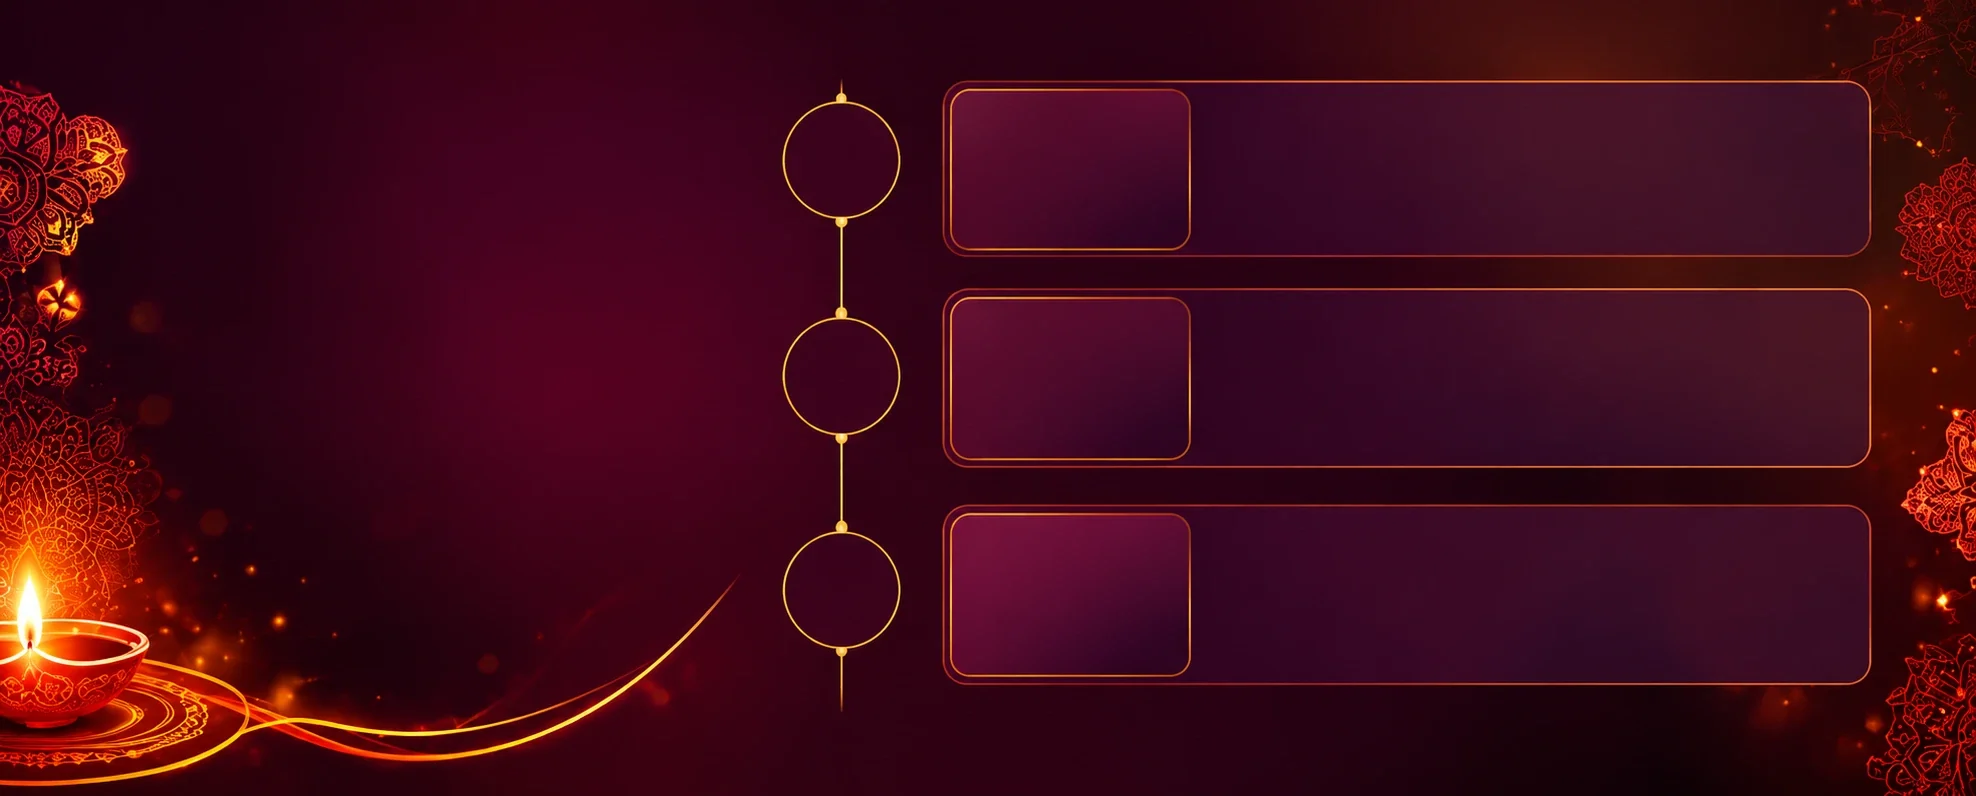
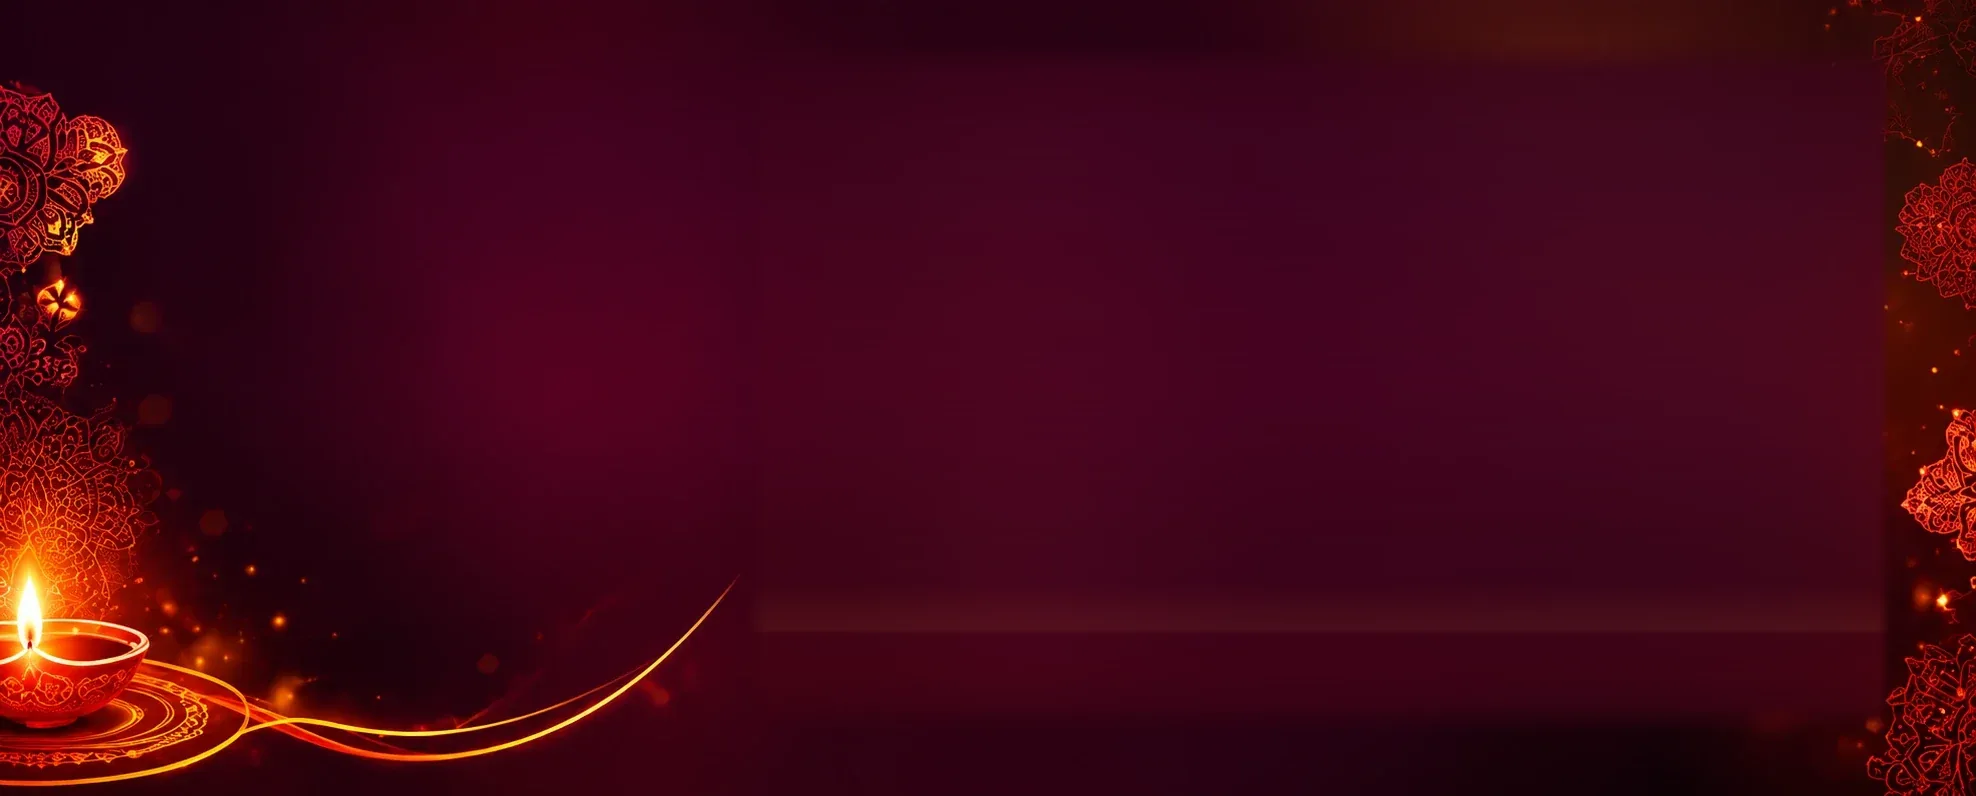
Draw the schedule timeline, circles and card frames in CSS
The desktop plate no longer has the three frames and circles painted in,
so a removed day leaves no empty frame behind. Rows re-centre when one or
two days remain.

diff --git a/styles.css b/styles.css
@@ -212,8 +212,9 @@ section>.wrap{position:relative}
 .sch-meta i{color:var(--gold);margin-right:6px}
 .sch-go{color:var(--gold);font-size:1.3rem}
 
-/* Desktop schedule: artwork (assets/ui/schedule-plate.webp, 1976x796) with the diya, the timeline
-   circles and three card frames built in. Content is placed in plate units. */
+/* Desktop schedule: artwork (assets/ui/schedule-plate.webp, 1976x796) with the diya and mandalas.
+   The timeline, circles and card frames are drawn here so they only appear for the days shown.
+   Content is placed in plate units. */
 @media (min-width:1100px){
   .schedule{padding:0;container-type:inline-size;background:url(assets/ui/schedule-plate.webp) center/100% 100% no-repeat,#2a0a1d}
   .sch-mandala,.sch-lamps,.sch-swoosh,.sch-list::before{display:none}
@@ -224,17 +225,28 @@ section>.wrap{position:relative}
   .sch-copy .btn{min-height:calc(64*var(--k));padding:0 calc(36*var(--k));font-size:calc(20*var(--k));gap:calc(12*var(--k))}
   .sch-list{position:absolute;inset:0;display:block;pointer-events:none}
   .sch-list li{position:absolute;display:block;pointer-events:auto;left:calc(783*var(--k));width:calc(1087*var(--k));top:calc(81*var(--k));height:calc(174*var(--k))}
+  /* timeline: a gold line from the circle down to the next circle, with a dot at each end */
+  .sch-list li::before{content:"";position:absolute;left:calc(57*var(--k));top:calc(-40*var(--k));bottom:calc(-40*var(--k));width:calc(2*var(--k));background:linear-gradient(180deg,var(--gold-2),var(--gold));opacity:.9}
+  .sch-list li:first-child::before{top:calc(-20*var(--k))}
+  .sch-list li:last-child::before{bottom:calc(-20*var(--k))}
+  .sch-list li::after{content:"";position:absolute;left:calc(52*var(--k));top:calc(-24*var(--k));width:calc(12*var(--k));height:calc(12*var(--k));border-radius:50%;background:var(--gold-2);box-shadow:0 0 calc(10*var(--k)) var(--gold-2)}
+  .sch-list li:last-child::after{top:auto;bottom:calc(-24*var(--k))}
   .sch-list li:nth-child(2){top:calc(289*var(--k));height:calc(177*var(--k))}
   .sch-list li:nth-child(3){top:calc(506*var(--k));height:calc(178*var(--k))}
-  .sch-day{position:absolute;left:0;top:calc(21*var(--k));width:calc(116*var(--k));height:calc(116*var(--k));background:none;border:0;box-shadow:none}
+  /* fewer days (a date passed, or the other-departments site): keep the rows centred on the plate */
+  .sch-list li:only-child{top:calc(289*var(--k))}
+  .sch-list li:first-child:nth-last-child(2){top:calc(185*var(--k))}
+  .sch-list li:nth-child(2):last-child{top:calc(402*var(--k))}
+  .sch-day{position:absolute;left:0;top:calc(21*var(--k));width:calc(116*var(--k));height:calc(116*var(--k));border-width:calc(2*var(--k));box-shadow:0 0 calc(26*var(--k)) rgba(255,170,60,.55),inset 0 0 calc(14*var(--k)) rgba(255,170,60,.25)}
   .sch-list li:nth-child(2) .sch-day{top:calc(29*var(--k))}
   .sch-list li:nth-child(3) .sch-day{top:calc(26*var(--k))}
   .sch-day b{font-size:calc(40*var(--k))}
   .sch-day small{font-size:calc(15*var(--k));margin-top:calc(4*var(--k))}
   .sch-card{position:absolute;left:calc(160*var(--k));top:0;width:calc(927*var(--k));height:100%;grid-template-columns:calc(240*var(--k)) 1fr auto;gap:calc(36*var(--k));
-    padding:calc(8*var(--k)) calc(44*var(--k)) calc(8*var(--k)) calc(7*var(--k));border:0;border-radius:calc(24*var(--k));background:none}
-  .sch-card:hover{transform:none;box-shadow:0 0 calc(30*var(--k)) rgba(255,170,60,.35)}
-  .sch-thumb{height:100%;aspect-ratio:auto;border-radius:calc(16*var(--k));background:none}
+    padding:calc(8*var(--k)) calc(44*var(--k)) calc(8*var(--k)) calc(7*var(--k));border:calc(1.5*var(--k)) solid rgba(242,181,58,.75);border-radius:calc(24*var(--k));
+    background:linear-gradient(170deg,rgba(74,20,48,.85),rgba(42,10,29,.92));box-shadow:0 calc(10*var(--k)) calc(30*var(--k)) rgba(0,0,0,.35)}
+  .sch-card:hover{transform:none;border-color:var(--gold-2);box-shadow:0 0 calc(30*var(--k)) rgba(255,170,60,.35)}
+  .sch-thumb{height:100%;aspect-ratio:auto;border-radius:calc(16*var(--k));background:var(--card-2)}
   .sch-txt{gap:calc(12*var(--k))}
   .sch-txt strong{font-size:calc(32*var(--k))}
   .sch-meta{font-size:calc(20*var(--k));gap:calc(8*var(--k)) calc(30*var(--k))}
